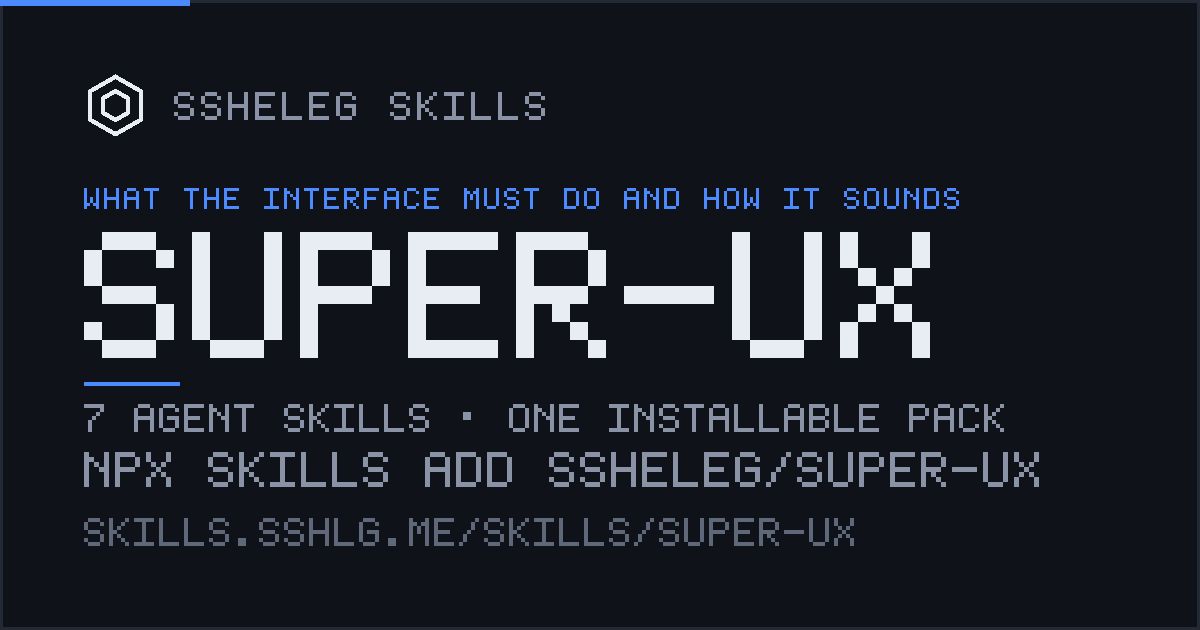
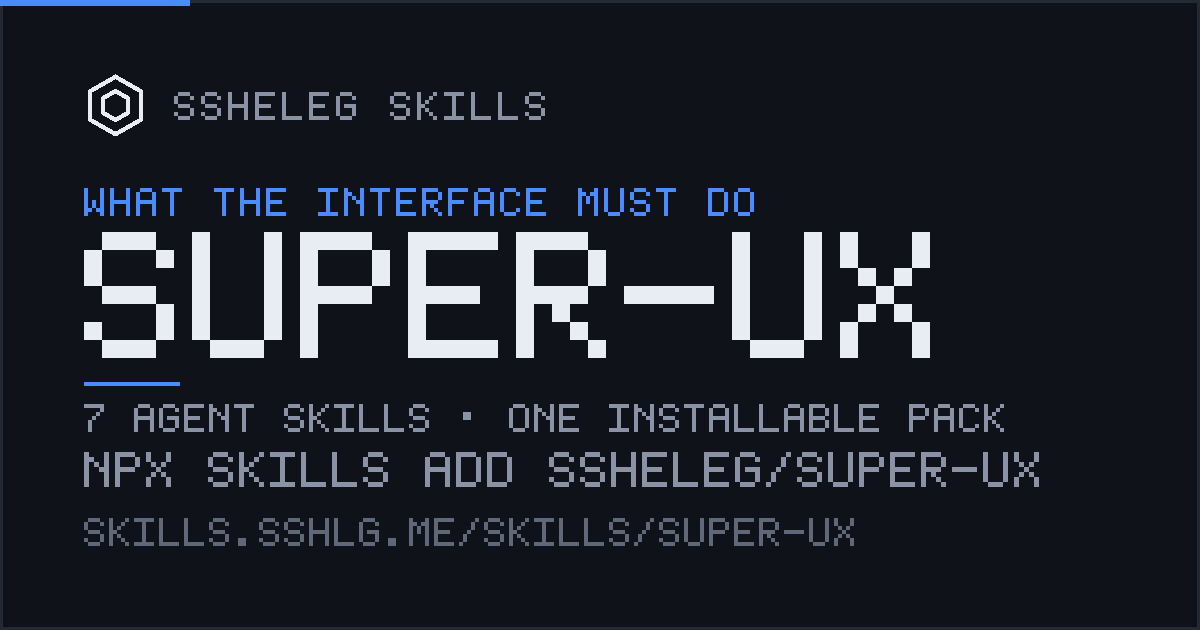
v0.52.5 — the card the umbrella renders (B-131) (#19)
The committed social preview is the umbrella's own render, byte for byte. The
pixels live here and are byte-checked from the umbrella, so only this
repository's own release can move them.

Gate: npm test rc=0.

Changed region(s): [[0.0617, 0.3016, 0.6783, 0.3619], [0.7092, 0.3016, 0.8017, 0.3317]]

diff --git a/docs/evidence/verification.md b/docs/evidence/verification.md
@@ -8,6 +8,15 @@ tick beside it.
 `Watched` values: `planted` (a defect was introduced and the check caught it,
 in this run), `observed` (it caught a real defect at some point), `never`.
 
+## 2026-09-03 — the role cell stops answering copywriting's question, v0.52.5
+
+| REQ | What ships | Verified by | Watched |
+|---|---|---|---|
+| R-97 | **The routing map and the precedence table agree about who owns copy.** The map cell read *"what the interface must do and how it sounds"* while the precedence table gave *"how it sounds"* to `copywriting`; a reader stopping at the first table routed copy work to `/ux`. The cell is now *"what the interface must do"* | the umbrella's `test/routers_test.js` fixture — no member role may contain another router's answer, one declared exemption — watched refusing the old string: `super-ux's role answers copywriting's question: "how it sounds"` | **planted** |
+| R-98 | **The committed card is the umbrella's own render, byte for byte.** The role feeds `scripts/site.js`, so the string could not move until this repository recommitted the pixels | `node test/site_test.js` in the umbrella → `PASS: site — 42 checks (13 pages, 9 members, 12 routers)`; this pack's own `npm test` → rc=0 with the new card in place | **observed** |
+
+**Rows at `never`: 0 in this section.**
+
 ## 2026-08-31 — the front matter gets read by a parser, v0.52.3
 
 | REQ | What ships | Verified by | Watched |

diff --git a/CHANGELOG.md b/CHANGELOG.md
@@ -1,3 +1,23 @@
+## 0.52.5 — the card the umbrella renders, and the half of the role that was copywriting's
+
+The committed social preview is now the umbrella's own render, byte for byte
+(`node test/site_test.js` → `PASS: site — 42 checks`). Nothing about this pack changed;
+the string it is rendered from did.
+
+**`super-ux`'s role cell said *"what the interface must do and how it sounds"*** in the
+routing map — the block's first content and its highest-salience surface — while the
+precedence table 362 lines below gave *"how it sounds"* to `copywriting`, and this pack's
+own router text says the same split. A reader who stopped at the first table routed copy
+work to `/ux`, on the one router pair the block works hardest elsewhere to separate. The
+cell is now *"what the interface must do"*, which is exactly what the precedence table
+already said.
+
+The umbrella carries the fixture that keeps it: no member's role may contain another
+router's answer, with one declared exemption. Watched refusing the old string —
+`super-ux's role answers copywriting's question: "how it sounds"`.
+
+Board: `B-131`.
+
 # Changelog
 
 ## 0.52.4 — the registry card stopped being four releases stale

diff --git a/docs/brand/facts.md b/docs/brand/facts.md
@@ -56,7 +56,7 @@ worth more than a row a loop skips while claiming to check everything.
 | practices in the catalog | 241 | `grep -c '^#### BP-' plugins/super-ux/skills/references/best-practices.md` | 2026-08-22 | 2026-11-20 | yes |
 | design heuristics | 24 | `grep -c '^\| PRN-' plugins/super-ux/skills/references/ux-design-principles.md` | 2026-08-20 | 2026-11-20 | yes |
 | brand-lint checks | 41 | `grep -o '"B[0-9]\{3\}"' plugins/super-ux/scripts/brand_lint.py \| sort -u \| wc -l \| tr -d ' '` | 2026-08-20 | 2026-11-20 | yes |
-| repo validator checks | 4619 | `python3 test/validate.py \| sed -n 's/^OK (\([0-9]*\) checks)$/\1/p'` | 2026-08-31 | 2026-11-29 | no |
+| repo validator checks | 4621 | `python3 test/validate.py \| sed -n 's/^OK (\([0-9]*\) checks)$/\1/p'` | 2026-08-31 | 2026-11-29 | no |
 | agents reachable via the skills CLI | 70+ | not recomputable here: the vercel-labs/skills agent registry is an external list, and no command in this repository returns it | 2026-08-20 | 2026-11-20 | yes |
 
 `Public: no` marks figures that exist and must never be quoted — internal

diff --git a/SKILL-CARD.md b/SKILL-CARD.md
@@ -5,7 +5,7 @@
 | Field | Value |
 |---|---|
 | Pack | `super-ux` |
-| Version | `0.52.4` |
+| Version | `0.52.5` |
 | Skills | `vision`, `ux-foundation`, `ux-flows`, `ux-scenarios`, `ux-audit`, `brand-voice`, `copywriting` |
 | License | MIT |
 | Source | https://github.com/ssheleg/super-ux |
